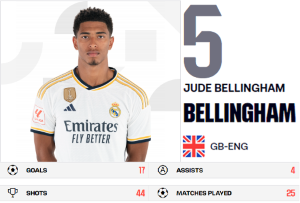
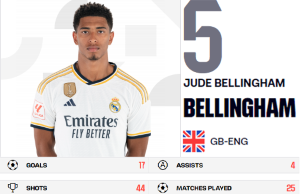
created most of player pictures and team pictures as well as updating how they are displayed

diff --git a/gui.py b/gui.py
@@ -88,20 +88,14 @@ def create_home():
     entry = customtkinter.CTkEntry(master=app, placeholder_text='Search', width=475, font=('Gill Sans MT', 15))
     entry.place(relx=0.2,rely=0.025)
 
-    league_frame = customtkinter.CTkFrame(master=app,width=470,height=180,corner_radius=0)
-    league_frame.place(relx=0.2,rely=0.275)
     league_text = customtkinter.CTkLabel(master=app,text='League Ladder',font=('Gill Sans MT', 22))
-    league_text.place(relx=0.4,rely=0.22)
+    league_text.place(relx=0.35,rely=0.22)
 
-    player_frame = customtkinter.CTkFrame(master=app,width=200,height=160,corner_radius=0)
-    player_frame.place(relx=0.225,rely=0.7)
     player_text = customtkinter.CTkLabel(master=app,text='Player Card',font=('Gill Sans MT', 22))
-    player_text.place(relx=0.275,rely=0.575)
+    player_text.place(relx=0.25,rely=0.57)
 
-    team_frame = customtkinter.CTkFrame(master=app,width=200,height=200,corner_radius=0)
-    team_frame.place(relx=0.625,rely=0.67)
     team_text = customtkinter.CTkLabel(master=app,text='Team Card',font=('Gill Sans MT', 22))
-    team_text.place(relx=0.71,rely=0.6)
+    team_text.place(relx=0.65,rely=0.57)
 
     picture_dir1 = r'Ladder Pictures'
     picture_files = [f for f in os.listdir(picture_dir1)]
@@ -109,25 +103,37 @@ def create_home():
     pic_dir2 = r'Player Pictures'
     pic_files2 = [f for f in os.listdir(pic_dir2)]
 
+    pic_dir3 = r'Team Pictures'
+    pic_files3 = [f for f in os.listdir(pic_dir3)]
+
     random_pic1 = random.choice(picture_files)
     random_pic2 = random.choice(pic_files2)
+    random_pic3 = random.choice(pic_files3)
     picture_path = os.path.join(picture_dir1, random_pic1)
     picture_path2 = os.path.join(pic_dir2, random_pic2)
+    picture_path3 = os.path.join(pic_dir3, random_pic3)
 
     league_image = Image.open(picture_path)
-    new_photo = league_image.resize((470, 180))
-    league_photo = ImageTk.PhotoImage(new_photo)
-    league_image_label = customtkinter.CTkLabel(league_frame, image=league_photo, text='')
-    league_image_label.place(relx=0.5, rely=0.5, anchor='center')
+    new_photo1 = league_image.resize((560, 201))
+    league_photo = ImageTk.PhotoImage(new_photo1)
+    league_image_label = customtkinter.CTkLabel(app, image=league_photo, text='')
+    league_image_label.place(relx=0.6, rely=0.4, anchor='center')
 
     player_image = Image.open(picture_path2)
-    new_photo1 = player_image.resize((200, 160))
-    player_photo = ImageTk.PhotoImage(new_photo1)
-    player_image_label = customtkinter.CTkLabel(player_frame, image=player_photo, text='')
-    player_image_label.place(relx=0.5, rely=0.5, anchor='center')
+    new_photo2 = player_image.resize((300, 180))
+    player_photo = ImageTk.PhotoImage(new_photo2)
+    player_image_label = customtkinter.CTkLabel(app, image=player_photo, text='')
+    player_image_label.place(relx=0.37, rely=0.8, anchor='center')
+
+    team_image = Image.open(picture_path3)
+    new_photo3 = team_image.resize((350, 200))
+    team_photo = ImageTk.PhotoImage(new_photo3)
+    team_image_label = customtkinter.CTkLabel(app, image=team_photo, text='',)
+    team_image_label.place(relx=0.775, rely=0.8, anchor='center')
 
     league_text.configure(text=f'League Ladder - {os.path.splitext(os.path.basename(random_pic1))[0]}')
-    player_text.configure(text=f'Player Card -\n {os.path.splitext(os.path.basename(random_pic2))[0]}')
+    player_text.configure(text=f'Player Card \n {os.path.splitext(os.path.basename(random_pic2))[0]}')
+    team_text.configure(text=f'Team Card \n {os.path.splitext(os.path.basename(random_pic3))[0]}')
 
 create_home()
 
